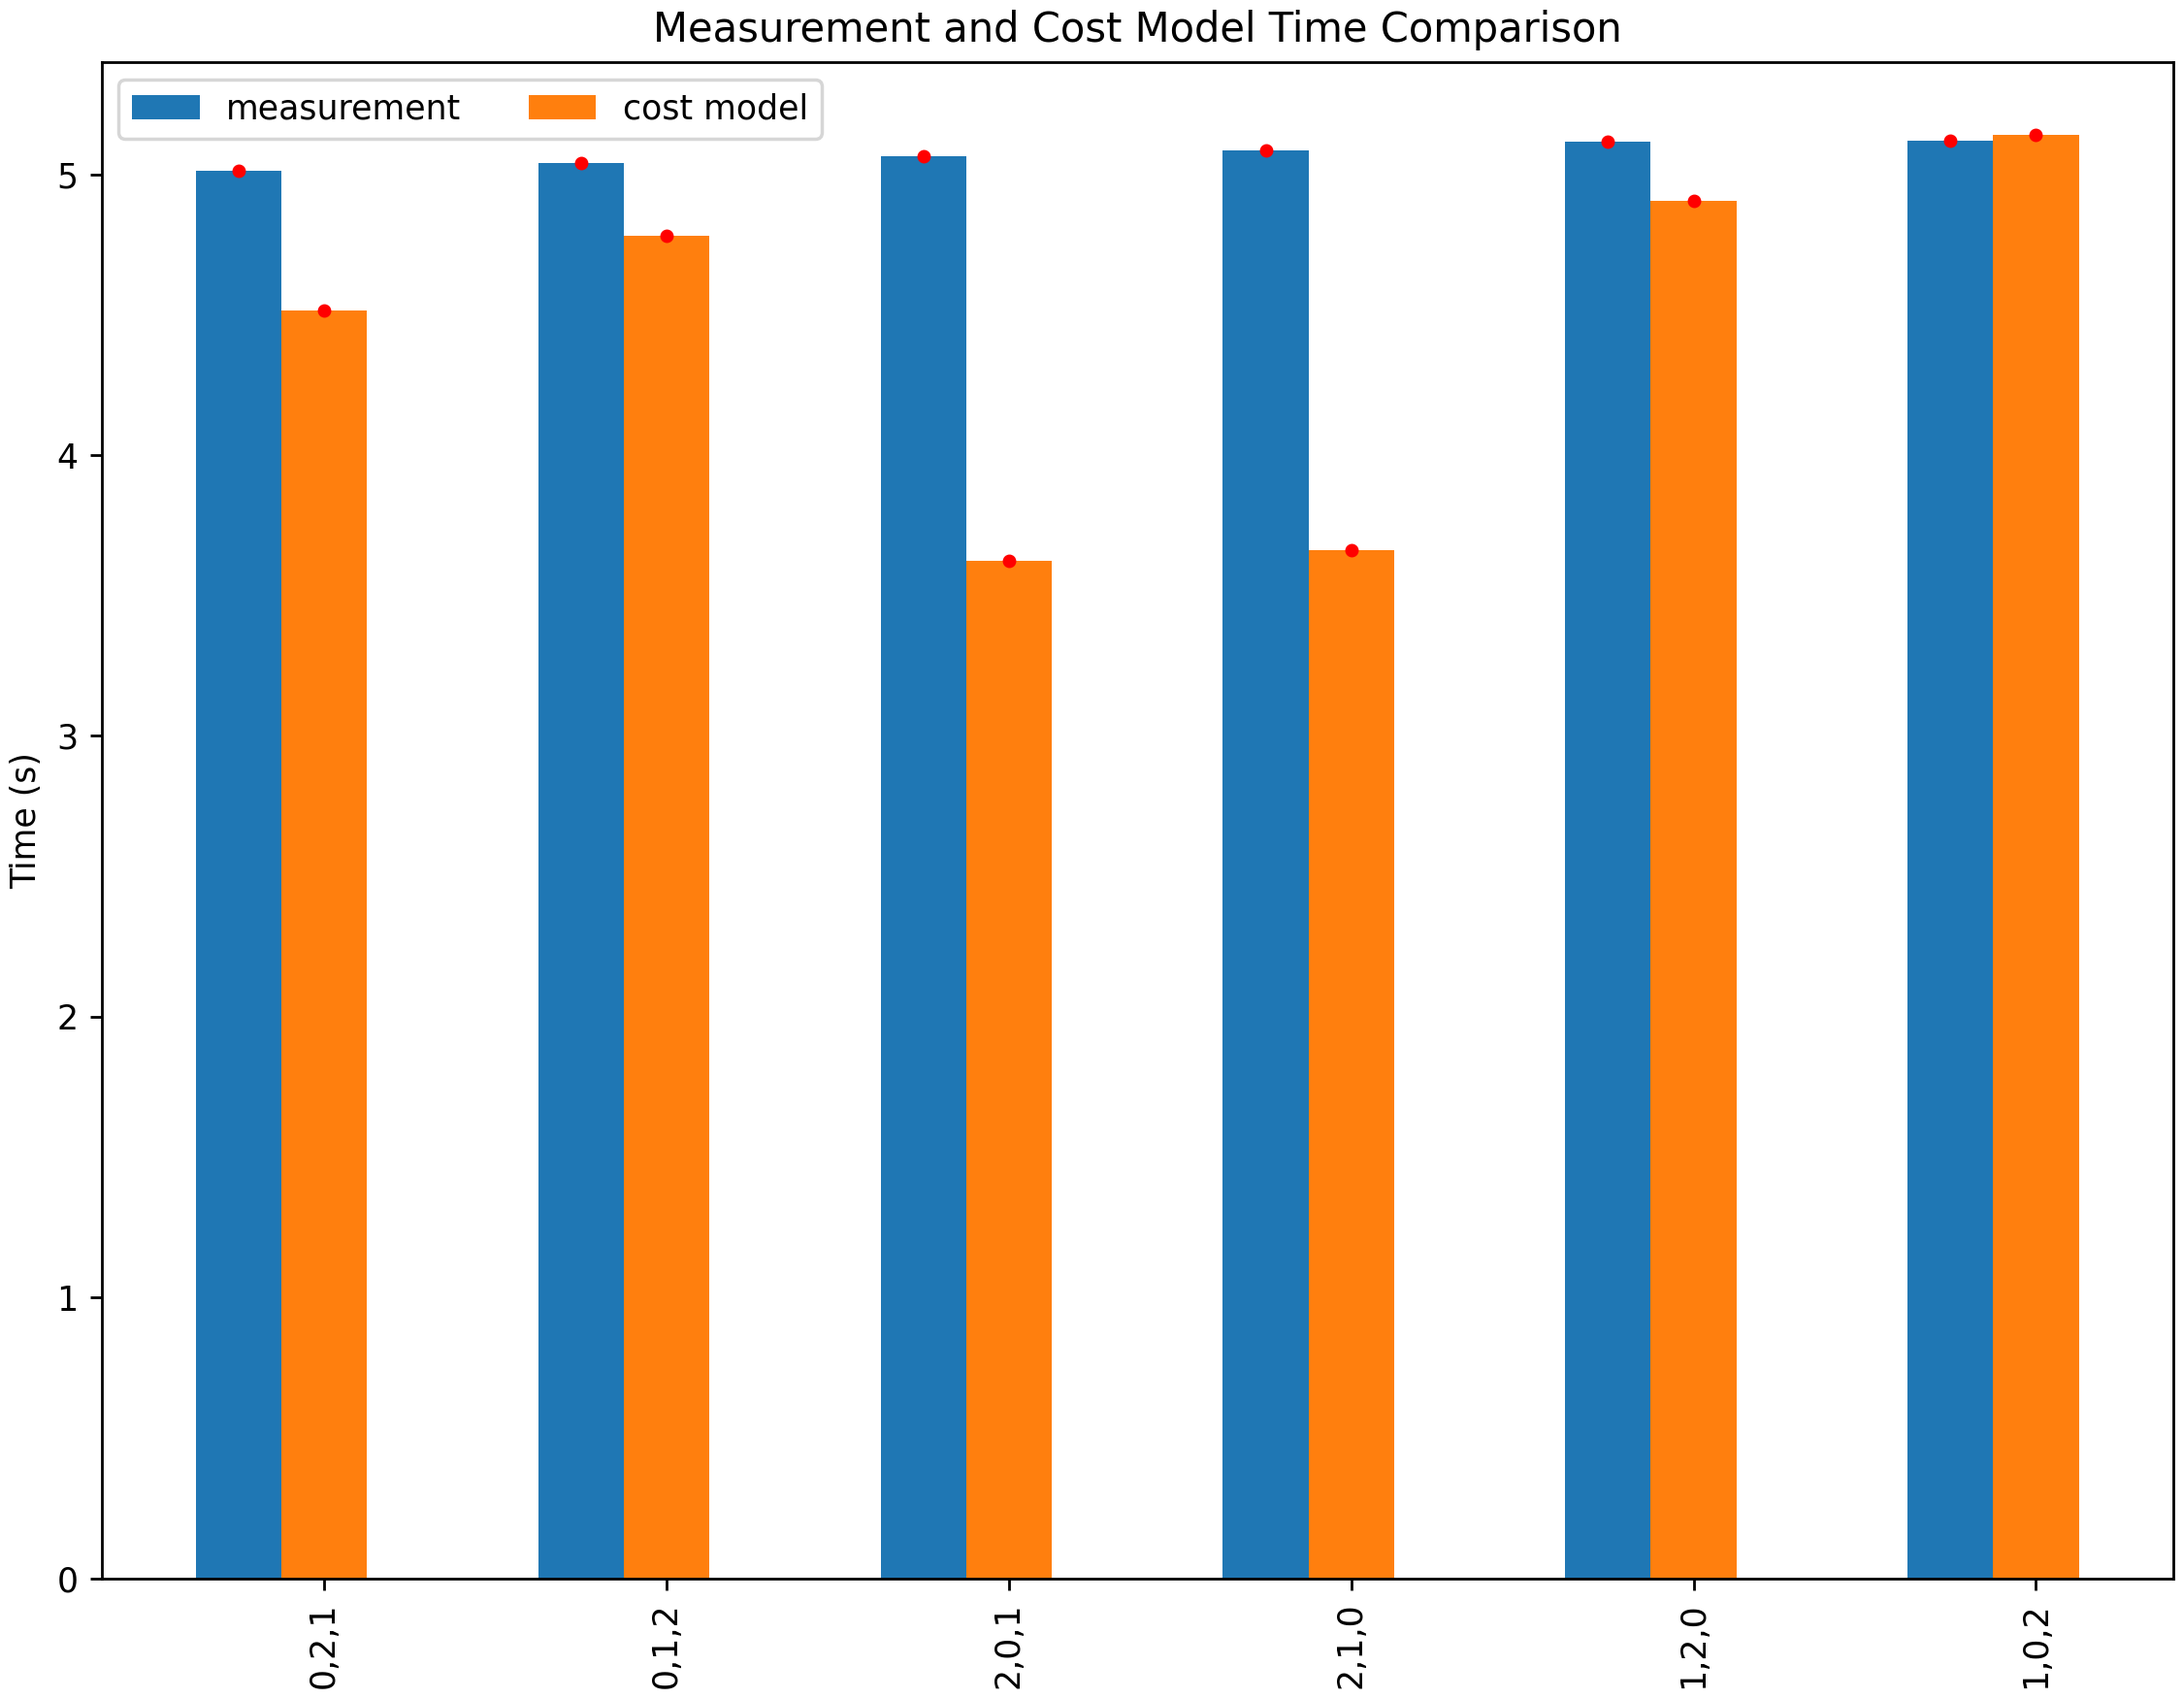
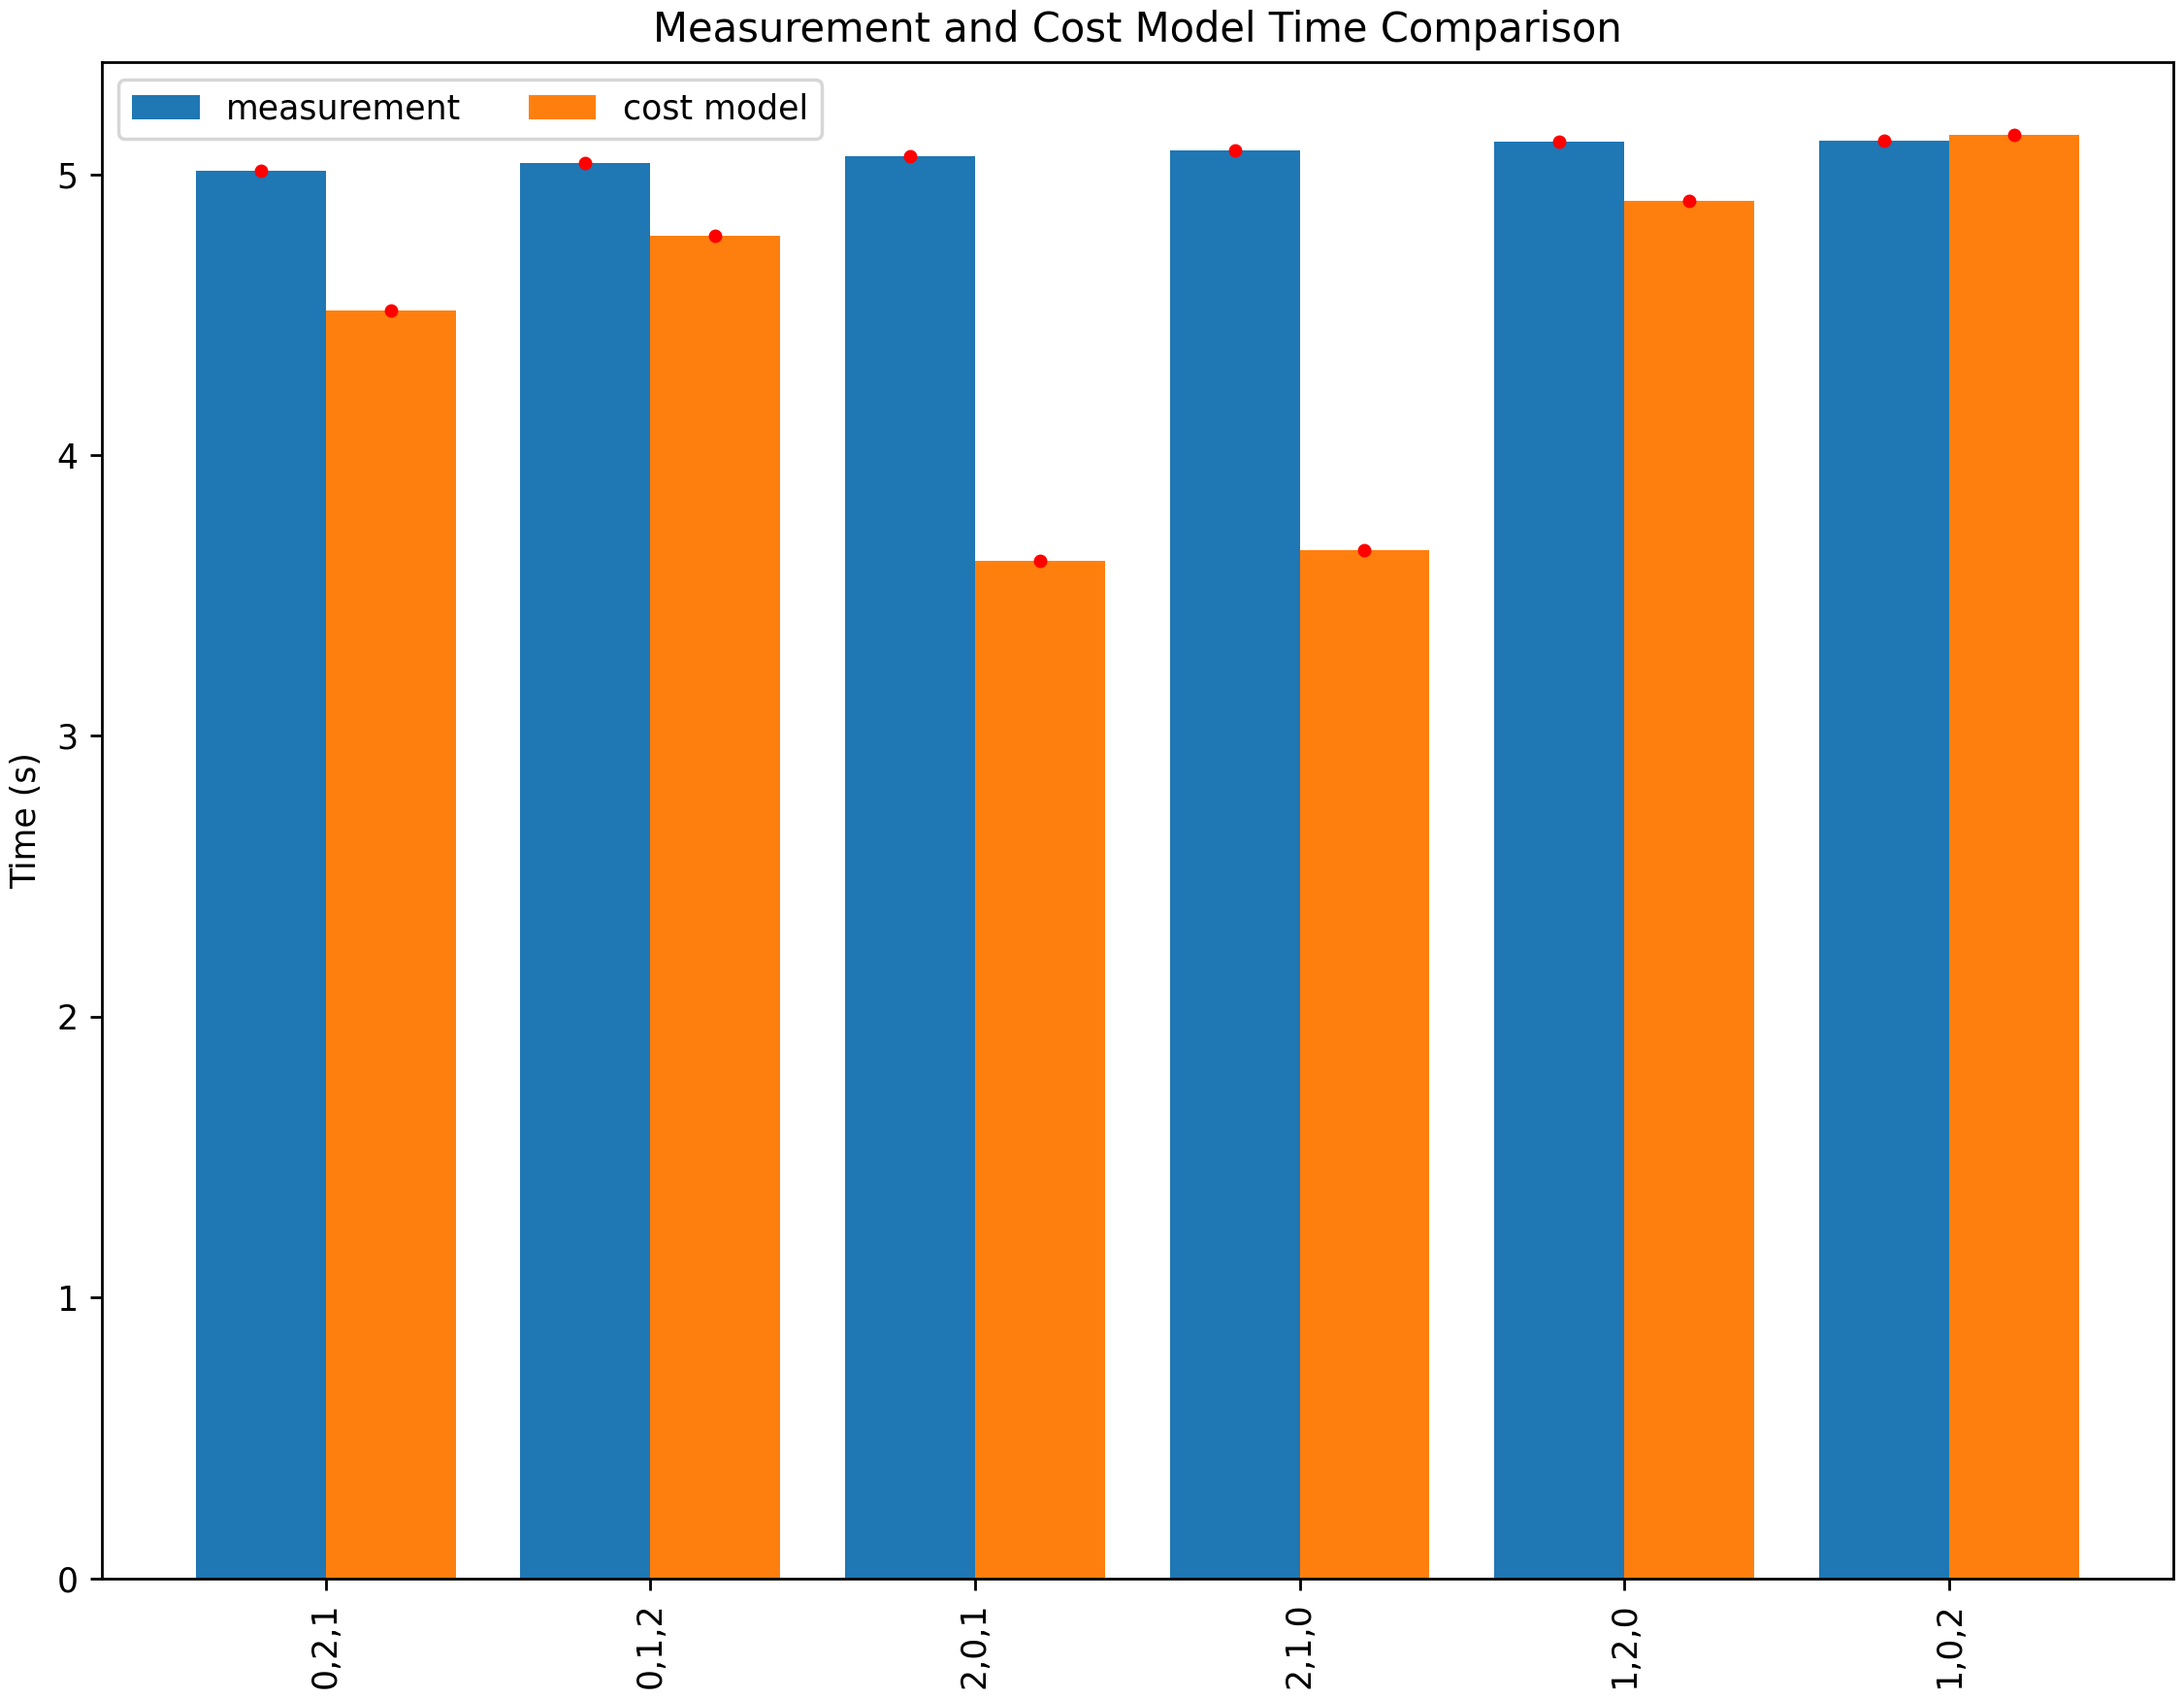
Update

diff --git a/python/join-benchmark/benchmark/util/plot_compare_cpu.py b/python/join-benchmark/benchmark/util/plot_compare_cpu.py
@@ -84,8 +84,8 @@ if __name__ == "__main__":
     }
     
     x = np.arange(len(bin_lables))  # the label locations
-    width = 0.25  # the width of the bars
-    multiplier = 0
+    width = 0.4  # the width of the bars
+    multiplier = 0.5
 
     fig, ax = plt.subplots(layout="constrained")
     fig.set_size_inches(9,7)
